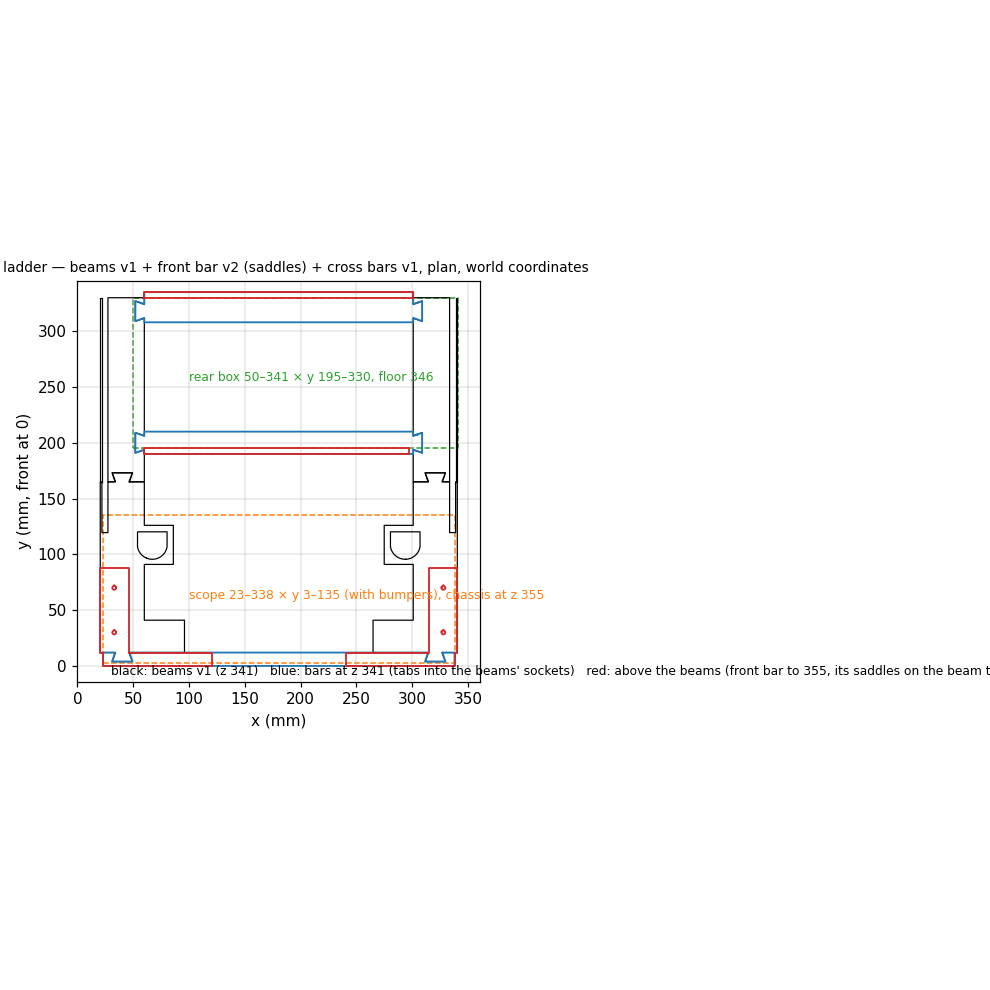
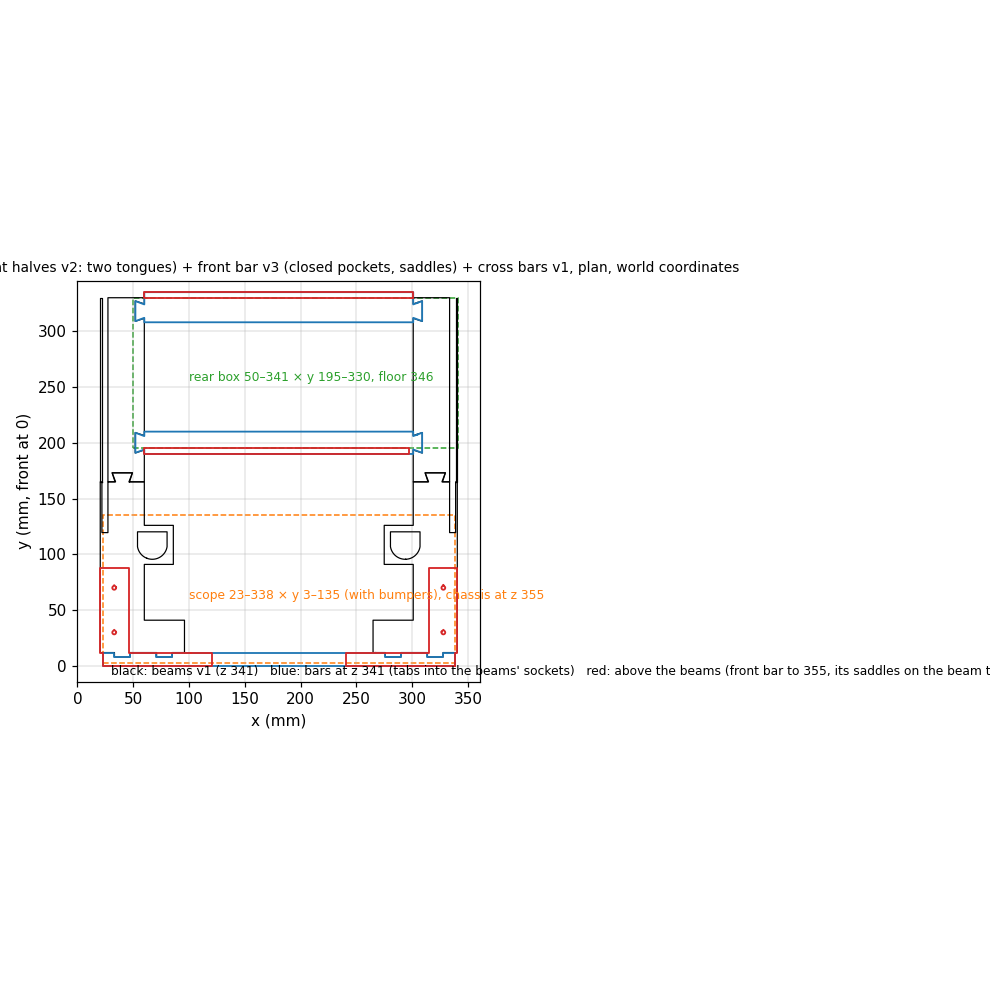
Sled front bar v3 + beam front halves v2: the stand pad is held by the bar
- Gareth, 2026-10-01: the pad should insert into the bar, not be glued
  to it. Each front half's front edge now carries two plain tongues
  (14 x 8 x 4, z 341.5-345.5, 45 deg wedge under the root): body at
  x 40.25 and stand pad at x 78. The bar has four closed pockets
  (0.15 clr, 4.35 floor, 9.35 above) and slides on from the front, so
  every tongue is captured above and below - the pad cannot drop. The
  v1 dovetail tab (open-bottom socket = hinge in roll) is gone; saddles
  and M3 screws stay and lock the bar on
- src/parts/sled_beam.py: TONGUE_* constants, tongue_wedge(); VERSION map
  -> sled-beam-{left,right}-front-v2 (rear halves stay v1, unchanged)
- src/parts/sled_bars.py: pockets + wedge cutters, VERSION -> front bar v3
- parts: sled-beam-{left,right}-front-v2.stl, sled-front-bar-v3.stl added;
  front halves v1 and front bar v2 removed (bambu 3mf of v1 is stale)
- src/sled_check.py: bar lifted 1 / lowered 1 must collide (closed
  pockets), slid 10 forward clear; all envelopes 0 cm3
- parts/sled-ladder-plan.png regenerated; ROADMAP status 2026-10-01 midday

Claude-Session: https://claude.ai/code/session_01NfymEEsbz5dDHNXhCDfjvd

Changed region(s): [[0.0, 0.2424, 0.6061, 0.2727], [0.6364, 0.2424, 0.7273, 0.2727]]

diff --git a/src/parts/sled_beam.py b/src/parts/sled_beam.py
@@ -10,7 +10,14 @@
 #               the two together: the pair is a sliding fit by design (P1) and the sled must move foot-and-beam as one.
 #   split       y 165: P7 puzzle tab on the front half pointing +y, socket in the rear half (DOVETAIL_CLR), assembled
 #               vertically and CA'd BEFORE threading onto the foot (a closed groove cannot be threaded half at a time).
-#   front bar   the beam's front end carries the same tab pointing −y (y 4–12) into a socket in the bar's rear-bottom edge.
+#   front bar   v2 front halves (2026-10-01): the front edge carries TWO plain tongues pointing −y (y 4–12, 14 wide,
+#               z 339.5–343.5) — one on the body at x 40.25, one on the STAND PAD at x 78 — into closed pockets in the
+#               bar's rear face (sled_bars.py v3). The bar slides on from the front, so each tongue is captured above and
+#               below: the pad's front edge is held by the bar and cannot drop (Gareth, 2026-09-28/10-01). Tongues sit
+#               z 341.5–345.5 with a 45° wedge under the root (the bar keeps a 4.35 floor under them); the pad's tongue
+#               pokes 2 above the stand pocket's floor but only inside the bar's footprint (y < 12), clear of the leg.
+#               v1 had one P7 dovetail tab on the body and the bar dropped on from above — an open-bottom socket, a
+#               hinge in roll.
 #   cross bars  y 190–210 and 308–328, between the beams (x 60–301): tab on each bar end, socket in the beam's inner edge.
 #   cup boss    x 46.5–86 × y 90–125, 10 thick (z 337–347): the P9 D cup (BUMPER_* + BUMPER_CUP_CLR), 6 deep = 5 straight +
 #               1 lead-in, floor at z 341 so the bumper's 14 puts the chassis at 355 (levels table). Flat faces the rear.
@@ -45,6 +52,10 @@ assert abs((Z0 + T - STAND_POCKET_D) + STAND_H - SCOPE_Z0) < 1e-6, 'stand pocket
 STAND_X0 = SCOPE_X0 + STAND_X_FROM_SIDE           # 47.7: stand's outer edge
 STAND_Y0 = SCOPE_Y0 + STAND_FRONT_FROM_FACE       # 13: main leg's front edge
 STAND_ARM = (XBAR_L, 96.0, Y_BAR, 41.0)            # pocket to x 92.3, 3.7 wall
+TONGUE_X = (XC, 78.0)                              # front tongues: beam body, stand pad centre (60–96)
+TONGUE_W, TONGUE_L, TONGUE_Z = 14.0, 8.0, (341.5, 345.5)   # 4 tall, 4.5 above the beam underside so the bar keeps a 4.35 floor under it
+TONGUE_WEDGE = 4.5                                 # 45° wedge under the tongue's root (y 7.5–12): self-supporting in the flat print, the
+                                                   # last 3.5 mm of the tongue is a short cantilever (rule 4)
 PEGS = ((33.0, 150.0), (33.0, 290.0)); PEG_D, PEG_H = 4.0, 2.5
 
 def d_profile(wp, w, d, side):
@@ -72,9 +83,19 @@ def groove(y0, y1):
 def tab(seam, along, dirn, grow=0.0, z0=Z0, z1=Z0 + T):
     return prism(trapezoid(seam, along, dirn, TAB_NECK, TAB_HEAD, TAB_LEN, grow=grow), z0, z1)
 
+def tongue_wedge(xt, grow=0.0):
+    """45° wedge under a tongue's root: (y 12, z 337) up to (y 12 − TONGUE_WEDGE, z 341.5). grow > 0 gives the bar's cutter."""
+    g = grow
+    pts = [(Y_BAR + 1 if g else Y_BAR, Z0 - (1 if g else 0)), (Y_BAR + 1 if g else Y_BAR, TONGUE_Z[0] + g),
+           (Y_BAR - TONGUE_WEDGE - g * 2 ** 0.5, TONGUE_Z[0] + g)]
+    w = cq.Workplane("YZ").polyline(pts).close().extrude(TONGUE_W + 2 * g)
+    return w.translate((xt - TONGUE_W / 2 - g, 0, 0))
+
 def left_front():
     b = box(X0, X0 + BW, Y_BAR, Y_SPLIT, Z0, Z0 + T)
-    b = b.union(tab(Y_BAR, XC, (-1, "y")))                                   # into the front bar
+    for xt in TONGUE_X:                                                       # tongues into the front bar's closed pockets
+        b = b.union(box(xt - TONGUE_W / 2, xt + TONGUE_W / 2, Y_BAR - TONGUE_L, Y_BAR, TONGUE_Z[0], TONGUE_Z[1]))
+        b = b.union(tongue_wedge(xt))
     b = b.union(tab(Y_SPLIT, XC, (+1, "y")))                                 # into the rear half
     b = b.union(box(*CUP_BOSS, Z0, Z0 + CUP_BOSS_T))
     b = b.union(box(*STAND_ARM, Z0, Z0 + T))
@@ -106,6 +127,7 @@ def for_print(part):
     except Exception as e:
         print("   chamfer skipped:", e); return p
 
+VERSION = {"sled-beam-left-front": 2, "sled-beam-right-front": 2}
 PARTS = {"sled-beam-left-front": left_front, "sled-beam-left-rear": left_rear,
          "sled-beam-right-front": lambda: mirror_right(left_front().cut(pegs_cutter())),
          "sled-beam-right-rear": lambda: mirror_right(left_rear().cut(pegs_cutter()))}
@@ -118,6 +140,6 @@ if __name__ == "__main__":
     OUT = os.path.normpath(os.path.join(os.path.dirname(os.path.abspath(__file__)), "..", "..", "parts")); os.makedirs(OUT, exist_ok=True)
     for name, fn in PARTS.items():
         p = for_print(fn()); bb = p.val().BoundingBox()
-        path = os.path.join(OUT, f"{name}-v1.stl"); cq.exporters.export(p, path, tolerance=0.01, angularTolerance=0.1)
+        path = os.path.join(OUT, f"{name}-v{VERSION.get(name, 1)}.stl"); cq.exporters.export(p, path, tolerance=0.01, angularTolerance=0.1)
         print(f"{name:24s} {bb.xlen:6.1f} x {bb.ylen:6.1f} x {bb.zlen:5.1f}  {p.val().Volume()/1000:6.1f} cm3")
         check(path, min_rest_frac=0.5, max_down_frac=0.35)

diff --git a/src/parts/sled_bars.py b/src/parts/sled_bars.py
@@ -4,8 +4,11 @@
 # assembled vertically and CA'd: a dry tab has 0.15 of play, and the whole point of the ladder is roll stiffness — on their
 # own the beams lean inwards under the scope (2026-09-28, Gareth's photo: the scope would not seat in the stand pockets).
 #
-#   front bar   x 23–338 (315), y 0–12, z 337–355 (18 tall). Sockets in its rear-bottom edge at x 40.25 / 320.75 take the
-#               beams' tabs (y 4–12, z 337–346); the bar drops onto both tabs. Pull: a 120 × 6 notch in the top edge
+#   front bar   x 23–338 (315), y 0–12, z 337–355 (18 tall). v3 (2026-10-01): four CLOSED pockets in its rear face
+#               (x 40.25 / 78 and mirrors, 14.3 × 4.3, 8.15 deep, z 341.35–345.65, plus the 45° wedge under each root) take
+#               the beams' front tongues (sled_beam v2: body and stand pad); the bar slides on from the FRONT, so every
+#               tongue is held above (9.35 of bar) and below (4.35 floor) — the stand pad cannot drop. v1/v2 had dovetail sockets open at the bottom (bar dropped on),
+#               which is a hinge in roll. Pull: a 120 × 6 notch in the top edge
 #               (x 120.5–240.5, z 349–355) — the D9 notch; whether it gets an insert is decided when the sled is in use.
 #               v2 (2026-09-28/10-01, after Gareth's photo of the stand arm's inboard edge dropping): two SADDLES on the
 #               bar's rear face, x 20.5–46 / 315–340.5, y 12–88, z 346–353, that lie on top of each beam's body behind
@@ -27,7 +30,7 @@ import os, sys, cadquery as cq
 sys.path.insert(0, os.path.join(os.path.dirname(os.path.abspath(__file__)), ".."))
 from fit import DOVETAIL_CLR as C
 from parts.drawer_quarters import box
-from parts.sled_beam import tab, Z0, T, XC, Y_BAR, XBAR_L, XBAR_R, CROSS_Y
+from parts.sled_beam import tab, Z0, T, XC, Y_BAR, XBAR_L, XBAR_R, CROSS_Y, TONGUE_X, TONGUE_W, TONGUE_L, TONGUE_Z, tongue_wedge
 
 BAR_X0, BAR_X1, BAR_Y1, BAR_H = 23.0, 338.0, 12.0, 18.0      # front bar
 XC_R = 361.0 - XC                                            # 320.75: right beam's tab centre (mirror about x 180.5)
@@ -40,8 +43,11 @@ REAR_CROSS = (308.0, 335.0)                                  # body y (runs 5 pa
 
 def front_bar():
     b = box(BAR_X0, BAR_X1, 0.0, BAR_Y1, Z0, Z0 + BAR_H)
-    for xc in (XC, XC_R):                                    # sockets: open at the bottom, closed at z 346
-        b = b.cut(tab(Y_BAR, xc, (-1, "y"), grow=C, z0=Z0 - 1, z1=Z0 + T))
+    for xt in TONGUE_X:                                      # closed pockets for the two tongues per beam, open at the rear face
+        for xc in (xt, 361 - xt):
+            b = b.cut(box(xc - TONGUE_W / 2 - C, xc + TONGUE_W / 2 + C, Y_BAR - TONGUE_L - C, Y_BAR + 1,
+                          TONGUE_Z[0] - C, TONGUE_Z[1] + C))
+            b = b.cut(tongue_wedge(xc, grow=C))               # and the 45° wedge under its root
     xm = (BAR_X0 + BAR_X1) / 2
     b = b.cut(box(xm - NOTCH_W / 2, xm + NOTCH_W / 2, -1, BAR_Y1 + 1, Z0 + BAR_H - NOTCH_D, Z0 + BAR_H + 1))
     x0, x1, y0, y1, z0, z1 = SADDLE
@@ -72,7 +78,7 @@ def cross_bar(y0, y1, yc, lip_front):
 def cross_front(): return cross_bar(*FRONT_CROSS, CROSS_Y[0], True)
 def cross_rear():  return cross_bar(*REAR_CROSS, CROSS_Y[1], False)
 
-VERSION = {"sled-front-bar": 2}
+VERSION = {"sled-front-bar": 3}
 PARTS = {"sled-front-bar": front_bar, "sled-cross-bar-front": cross_front, "sled-cross-bar-rear": cross_rear}
 
 def for_print(part, on_front=False):

diff --git a/src/sled_check.py b/src/sled_check.py
@@ -1,7 +1,8 @@
 # sled_check.py — proves the sled ladder (beams v1 + front bar + cross bars) before the bars print. python src/sled_check.py
 #   1. beams (as printed, world coordinates) + bars assembled: zero intersection
 #   2. every tab engaged: each bar shifted 0.5 along its own axis or across it collides with the beams
-#   3. vertical assembly: each bar lifted 10 is clear of the beams (sockets open upward / bar sockets open downward)
+#   3. assembly paths: the cross bars lifted 10 are clear (they drop on); the front bar lifted 10 COLLIDES (its pockets are
+#      closed — it slides on from the front) and slid 10 forward is clear
 #   4. scope body (x 23–338, y 3–135 with bumpers, z ≥ 355), the box (x 50–341, y 195–330, z ≥ 346), the stand legs at
 #      their loosest and the cable channel's footprint all clear of the bars (the v2 saddles sit between them)
 import os, sys
@@ -21,7 +22,10 @@ print("1. assembled:", {n: round(vol(b, beams), 4) for n, b in bars.items()}, "c
 for n, b in bars.items():
     for tag, d in (("x+0.5", (0.5, 0, 0)), ("x-0.5", (-0.5, 0, 0)), ("y+0.5", (0, 0.5, 0)), ("y-0.5", (0, -0.5, 0))):
         v = vol(b.translate(d), beams); print(f"2. {n} {tag}: {v:.3f} cm3 {'engaged' if v > 0.005 else 'FREE'}")
-print("3. lifted 10:", {n: round(vol(b.translate((0, 0, 10)), beams), 4) for n, b in bars.items()}, "cm3 (all 0)")
+lift = {n: round(vol(b.translate((0, 0, 10 if "cross" in n else 1)), beams), 4) for n, b in bars.items()}
+print("3. cross bars lifted 10 / front bar lifted 1:", lift, "cm3 — cross bars 0 (drop on); FRONT BAR MUST COLLIDE (closed pockets):", "ok" if lift["sled-front-bar"] > 0.01 else "FAIL")
+print("3c. front bar lowered 1 (pocket ceilings):", round(vol(bars["sled-front-bar"].translate((0, 0, -1)), beams), 4), "cm3 (must collide)")
+print("3b. front bar slid 10 forward (its assembly path):", round(vol(bars["sled-front-bar"].translate((0, -10, 0)), beams), 4), "cm3 (must be 0)")
 scope = box(23, 338, 3, 135, 355, 500); boxsolid = box(50, 341, 195, 330, 346, 456)
 stands = box(47.1, 92.3, 12, 37.1, 343.5, 355).union(box(361 - 92.3, 361 - 47.1, 12, 37.1, 343.5, 355))   # legs at the pocket's loose limits
 channel = box(20, 46, 140, 334, 346, 400)

diff --git a/src/sled_plan.py b/src/sled_plan.py
@@ -19,5 +19,5 @@ ax.add_patch(Rectangle((23, 3), 315, 132, fill=False, ec="C1", ls="--", lw=1)); 
 ax.add_patch(Rectangle((50, 195), 291, 135, fill=False, ec="C2", ls="--", lw=1)); ax.text(100, 255, "rear box 50–341 × y 195–330, floor 346", color="C2", fontsize=8)
 ax.text(30, -8, "black: beams v1 (z 341)   blue: bars at z 341 (tabs into the beams' sockets)   red: above the beams (front bar to 355, its saddles on the beam tops 346–353 with the M3 holes, guide lips 346–356)", fontsize=8)
 ax.set_xlim(0, 361); ax.set_ylim(-14, 345); ax.set_aspect("equal"); ax.grid(True, lw=0.3); ax.set_xlabel("x (mm)"); ax.set_ylabel("y (mm, front at 0)")
-ax.set_title("Sled ladder — beams v1 + front bar v2 (saddles) + cross bars v1, plan, world coordinates", fontsize=9)
+ax.set_title("Sled ladder — beams (front halves v2: two tongues) + front bar v3 (closed pockets, saddles) + cross bars v1, plan, world coordinates", fontsize=9)
 plt.tight_layout(); plt.savefig(os.path.join(PARTS, "sled-ladder-plan.png"), dpi=110); print("ok")

diff --git a/ROADMAP.md b/ROADMAP.md
@@ -22,7 +22,9 @@ v2: decisions D1–D6 answered (§0), cut plan redone for the 300 mm pack (§2),
 
 **Print jobs from 2026-09-26 — the side skin, black PETG, one plate a night (all six printed by 2026-09-28):** `parts/tiles/tiles-plate-A.stl` (band 2 left-front + a band-1 tile, 247 × 155, 69 cm³), then **B** (band 2 left-rear + band 1), **C** (band 3 left front + rear), **D**, **E**, **F** (the right side, same pattern). Face down as exported, no brim, no support, `SiglentTower fit 0.20`. Twelve tiles in all (`src/parts/side_tile.py production()`, `src/tiles_plates.py`). **Finding while assembling the skin in CadQuery:** the PSU and left-AWG cradle saddles' outer lips hang 6 mm down the rails' outer faces, and the door hinge's frame plates sit on the right scope rail's outer face — all inside the tile plane. Bands 2 and 3 therefore carry through-windows for them and are now four/two distinct left/right tiles; the whole skin (12 tiles, 8 rails, 6 lips, 2 hinge plates) checks at zero intersection. Right-side tiles are the left ones turned 180° about z — mount them with their local y running rearward; band 1 is the same tile everywhere. Band 4 left is still open (no rail under it).
 
-**Status 2026-10-01: sled front bar v2 — saddles.** Gareth's second look (photo, 2026-09-28 16:00): what drops is the stand arm's inboard edge, and he wants it supported by design, not glued better. There is nothing to put under the arm (AWG 1 mm below), so the support has to stop the beam ROLLING about its foot, and a 9 mm tab in a socket is a hinge in roll however well it is glued. **v2 `parts/sled-front-bar-v2.stl`** (replaces v1, which is withdrawn — `bambu/parts/sled-front-bar-v1.3mf` is stale) adds a **saddle** on each end of the bar's rear face, x 20.5–46 / 315–340.5, y 12–88, z 346–353, lying on the beam body behind the bar: a 25.5 × 76 lap, CA'd and **screwed with two M3 × 14 self-tappers per side** (Ø3.4 teardrop holes at x 33 / 328, y 30 / 70; drill Ø2.5 pilots into the beam through them; 7 mm into the 9 mm beam, 2 short of its underside). The beam can no longer roll without shearing the lap, which is what holds the arm's edge up — the arm itself bends 0.01 mm. Clearances: 1.1 to the stand leg at its loosest (x 47.1), 2 under the chassis (355), 0.5 / 3 to the cup boss, clear of the cable channel; `src/sled_check.py` extended with the stand-leg and channel envelopes, all 0.000 cm³. Prints **front face down** as exported (315 × 18 footprint, saddles rising 76; every socket flank still a vertical wall; 86 % resting face, nothing to support), dark grey PETG, 84 cm³, on the diagonal. **Buy: M3 × 14 self-tapping / button-head ×4 more** (8 in all with the facia's).
+**Status 2026-10-01 (midday): front bar v3 + beam front halves v2 — the stand pad gets its own tongue into the bar.** Gareth's point, accepted: the pad should be held by the bar, not glued to it. Each front half's front edge now carries **two plain tongues** (14 × 8 × 4, z 341.5–345.5, a 45° wedge under each root), one on the body at x 40.25 and one on the stand pad at x 78; the bar has four **closed pockets** (0.15 clearance, 4.35 of floor under each, 9.35 above) and **slides on from the front** — so each tongue is captured above and below and the pad cannot drop. The v1 dovetail tab is gone (an open-bottom socket is a hinge in roll). Saddles and M3 screws stay (they lock the bar on). **Reprint: `parts/sled-beam-left-front-v2.stl` + `parts/sled-beam-right-front-v2.stl`** (black ABS+, dried, flat as exported, both on one plate, 5 mm outer brim — trim it off the tongues and tabs — supports on build plate only: the tongues' last 3.5 mm are short cantilevers, 68 cm³ each) **and `parts/sled-front-bar-v3.stl`** (grey PETG, front face down on the diagonal, brim on, 84 cm³). v2 bar and v1 front halves withdrawn (rear halves, feet, cross bars unchanged). `src/sled_check.py`: assembled 0 cm³, tongues engaged at 0.5 in x and rearward, bar lifted 1 / lowered 1 collides (pockets closed both ways), slid 10 forward clear (its assembly path), scope / box / stand-leg / channel envelopes clear. Assembly: the beams' halves CA'd at the P7 tab, rib threaded onto the feet, then the bar pushed on from the front over all four tongues, saddles screwed and glued, then the cross bars dropped in and glued.
+
+**Status 2026-10-01 (morning): sled front bar v2 — saddles** *(superseded by v3 the same day)*. Gareth's second look (photo, 2026-09-28 16:00): what drops is the stand arm's inboard edge, and he wants it supported by design, not glued better. There is nothing to put under the arm (AWG 1 mm below), so the support has to stop the beam ROLLING about its foot, and a 9 mm tab in a socket is a hinge in roll however well it is glued. **v2 `parts/sled-front-bar-v2.stl`** (replaces v1, which is withdrawn — `bambu/parts/sled-front-bar-v1.3mf` is stale) adds a **saddle** on each end of the bar's rear face, x 20.5–46 / 315–340.5, y 12–88, z 346–353, lying on the beam body behind the bar: a 25.5 × 76 lap, CA'd and **screwed with two M3 × 14 self-tappers per side** (Ø3.4 teardrop holes at x 33 / 328, y 30 / 70; drill Ø2.5 pilots into the beam through them; 7 mm into the 9 mm beam, 2 short of its underside). The beam can no longer roll without shearing the lap, which is what holds the arm's edge up — the arm itself bends 0.01 mm. Clearances: 1.1 to the stand leg at its loosest (x 47.1), 2 under the chassis (355), 0.5 / 3 to the cup boss, clear of the cable channel; `src/sled_check.py` extended with the stand-leg and channel envelopes, all 0.000 cm³. Prints **front face down** as exported (315 × 18 footprint, saddles rising 76; every socket flank still a vertical wall; 86 % resting face, nothing to support), dark grey PETG, 84 cm³, on the diagonal. **Buy: M3 × 14 self-tapping / button-head ×4 more** (8 in all with the facia's).
 
 **Status 2026-09-28 (bench, midday): the scope on the bare beams leans them inwards** — photo: the stands would not seat in the pockets. Cause, not a beam fault: the scope's weight sits 45 mm inboard of each foot, and with nothing tying the beams each one rolls on the foot's slot play (0.3), the unglued rib (0.2) and the 2.5 web — 3–4 mm at the stands. The fix is the designed ladder, now released: **`parts/sled-front-bar-v1.stl`** (dark grey PETG, 315 × 12 × 18, standing on its bottom edge on the diagonal as exported, sockets open to the bed; 120 × 6 pull notch in the top edge, insert decided later) and **`parts/sled-cross-bar-{front,rear}-v1.stl`** (black ABS, flat as exported, 257 × 20/27 × 19 with the guide lips; front lip chamfered at the exit end, rear bar runs to y 335 to carry its lip). `src/parts/sled_bars.py`; proven in `src/sled_check.py` against the printed beams (0 cm³ assembled, every tab engaged at 0.5, all three lift clear, scope and box envelopes clear); sheet `parts/sled-ladder-plan.png`. **Every tab CA'd** — a dry tab's 0.15 play is 0.8 mm at the stands. Assembly order: bars onto the beams (sets the 241), then the beams bonded to the feet. Modelling queue items (1) and (2) done; fallback if lean remains after glue-up: a third bar lap-glued on top of the beams behind the stand arms, no beam reprint.
 
@@ -32,7 +34,9 @@ v2: decisions D1–D6 answered (§0), cut plan redone for the 300 mm pack (§2),
 
 **Status 2026-09-28 (evening) — seating the PSU and AWG.** **Seating jigs issued** (`src/jigs/seating_jigs.py` → `jigs/seating-jigs-plate.stl`, yellow PETG, 213 × 246, 52 cm³ solid, as exported, no brim, no support, 2 walls, 15 % infill): **PSU L / PSU R** — a bar with two replica PSU feet at y 51 / 253.5 and a nose arm whose front face stops on the front-left upright (y 20) / front inner upright (y 23); **AWG L / AWG R** — a bar with two 20 × 20 bosses into the pad pockets, 203 / 200 apart, setting the rear cradle from the front one; **four PETG stand-in AWG pads** (20 × 20 × 5.5) so the AWG can sit before the Stage 8 TPU session. Proven against the cradle models: 0 intersection in place, 0.5 forward collides, nose faces on y 20.00 / 23.00. The PSU arms reach 52, so the jigs still work if the cups move 3 mm (v4). **Three clashes found in the model, awaiting Gareth's measurements (PSU foot c-c across, cup c-c across on the frame, PSU bench-to-case-top) before any reprint:** (1) `psu_cradle.py` puts the cup REACH from the lip's outer face, not the rail face → cups 41.75 in, 147.5 c-c across vs ~154 feet; (2) PSU top 92 + 149 = 241 vs the AWG cradle arms' underside 239.5 (the viewer draws the PSU 137 tall); (3) the right AWG brackets' plate (x 241–251, z 227.5–247.5) overlaps the PSU body (to x 245.75, z 241) by 4.75. Proposed: PSU cradles v4 (cup 3 nearer the rail, 2 deeper) and AWG cradles v2 (arms 6, right plate 4 with countersunk M5).
 
-**HANDOVER 2026-09-27 (evening) — read this first.** Where things stand: Stage 0 ☑; gates P1 P2 P4 P5 P6 P7 P9 ☑ (P3 = friction verdict at 4.1, P8 = the Stage 8 TPU session). Strip brackets done and mounted (upper v1, lower v4). **Gareth is assembling the frame now — Stage 2, 2.1–2.5 — from `frame-assembly-3d.html`** (`src/frame_assembly_viewer.py`; regenerate with `python src/frame_assembly_viewer.py`, it lifts three.js from `bench-stack-3d.html`). His T-nuts are drop-in; connectors per the §Stage 2 note (hidden L on the inward faces, one flat cast bracket on the front tie, scope rails on cast brackets — fitted in the same flat build with their feet already in, revised 2026-09-28). Ask him for: the diagonal / 321 / 510 checks, whether anything wobbles (3 spare cast brackets go under the PSU rails' rear ends first), then tick 2.1–2.6 and do 2.7 (PSU and AWG on blocks at 91 and 251.5, check the 3 mm reveals). **Printer:** tiles plate A printed, B and C sliced (`bambu/parts/`), B is tonight; then D, E, F; each night one plate *(all six printed by 2026-09-28)*. **Nothing else is waiting on the bench. He wants a BIG overnight run next** — the tile plates are bed-limited to two tiles a night (band 2 + band 3 nested would be 250.2 wide; band 1 + band 1 + band 3 is 252.6 — both over the 250 plate rule, so no repack), and nothing bigger is exported yet. So the first job of the next session is to make one *(done 2026-09-28: drawer quarters Q1–Q4 released, one per plate)*: best candidates are the bottom-drawer quarters (D2, P7 ☑, `src/parts/drawer_quarters.py` production pass — runner grooves, facia bosses — one quarter per plate, the biggest print in the build) or the ABS+ bar plate (bottom-drawer runners ×2 with four M5 each, column guide strips ×4, mini-slot runner ×1, all on the diagonal), whichever is ready first; tile plate C runs tonight regardless, D–F on the nights after. Then the modelling queue, in order: (1) ~~sled front bar~~ and (2) ~~two cross bars~~ (both done 2026-09-28, `src/parts/sled_bars.py`); (3) cable channel (Ø4.3 holes on the pegs at x 33, y 150 / 290); (4) sled stops; (5) band-4 left tile (its bottom fingers interleave with band 3's top ones — band 3 is plate C, already sliced, so band 4 must fit round band 3, not the reverse); (6) ~~drawer quarters production pass~~ (done 2026-09-28) and the bottom-drawer runners (four M5 each); (7) column guide strips — the one on the right PSU rail's inner face starts at y ≥ 45 (front-tie bracket at y 23–43). Every export through `printcheck.py`, every clearance from `fit.py`, every fit proven by boolean intersection + shift test before it goes to him (he will not read code). **How he works:** files go straight into the repo folder (never zips), always with a commit message he can paste — long ones in `.git/<name>-commit-msg.txt` + `git commit -F`; numbered one-action steps, plain words (no invented terms — he asked what 'bezel' and 'CA' meant), diagrams when asked; ABS+ profile has a 5 mm outer brim on everything; TPU prints once, last. Keep `claude/ROADMAP.md` in the project in step with this file.
+**HANDOVER 2026-10-01 (morning) — read this first; the 2026-09-27 handover below it is history.** Frame: Stage 2 built (sides flat-built with all five rails and the feet, joined, sub-frame in); 2.1–2.7 are not ticked because Gareth has not yet reported the diagonal / 321 / 510 checks or a wobble — ask, then tick. The scope has been trial-sat on the bare beams and leaned them inwards → sled front bar v2 with saddles (status 2026-10-01); cross bars v1 sliced. **Printed:** tiles A–F (12 side tiles), drawer quarters Q1–Q4, PSU + AWG cradles, sled feet + beams, strip brackets, hinge pair; the drawer runners are the 09-30 / 10-01 night jobs. **Next on the bench, in order:** (1) reprint the beam front halves v2 and the front bar v3 (status 2026-10-01 midday), fit with the cross bars, glue and screw every joint, scope on, check the stand pads stay level; (2) runners into the base rails, P3 stub then the assembled drawer — **P3's friction verdict**; (3) PSU / AWG seating with the jigs — **blocked on his measurements** (PSU foot c-c across, cup c-c on the frame, PSU bench-to-case-top) because the model shows three clashes (status 2026-09-28 evening) — do not reprint cradles before those numbers. **Modelling queue:** drawer home stop; column guide strips ×4 + mini-slot runner (ABS+, after the P3 verdict); cable channel (Ø4.3 holes on the pegs at x 33, y 150 / 290); sled stops; band-4 left tile (fits round band 3, already printed); drawer facia + pull insert (Ø2.6 blind holes for the M3 × 14 pads at x 40 / 117.5 / 197.5 / 275, z 23); column + mini-slot drawers; housing tops; box halves. **Hardware to buy:** M3 × 14 ×8 (4 facia, 4 saddles). **Rules that bit this week:** nothing can go under the sled beams (AWG 1 mm below) — roll stiffness comes from the ladder's lap joints, not from supports; a tab joint is a hinge in roll; one drawer quarter per plate; every export through `printcheck.py`, every fit proven by boolean + shift test before it goes to him; he does not read code — files straight into the repo with a `.git/<name>-commit-msg.txt` and the `git commit -F` line, numbered one-action steps, plain words.
+
+**HANDOVER 2026-09-27 (evening).** Where things stand: Stage 0 ☑; gates P1 P2 P4 P5 P6 P7 P9 ☑ (P3 = friction verdict at 4.1, P8 = the Stage 8 TPU session). Strip brackets done and mounted (upper v1, lower v4). **Gareth is assembling the frame now — Stage 2, 2.1–2.5 — from `frame-assembly-3d.html`** (`src/frame_assembly_viewer.py`; regenerate with `python src/frame_assembly_viewer.py`, it lifts three.js from `bench-stack-3d.html`). His T-nuts are drop-in; connectors per the §Stage 2 note (hidden L on the inward faces, one flat cast bracket on the front tie, scope rails on cast brackets — fitted in the same flat build with their feet already in, revised 2026-09-28). Ask him for: the diagonal / 321 / 510 checks, whether anything wobbles (3 spare cast brackets go under the PSU rails' rear ends first), then tick 2.1–2.6 and do 2.7 (PSU and AWG on blocks at 91 and 251.5, check the 3 mm reveals). **Printer:** tiles plate A printed, B and C sliced (`bambu/parts/`), B is tonight; then D, E, F; each night one plate *(all six printed by 2026-09-28)*. **Nothing else is waiting on the bench. He wants a BIG overnight run next** — the tile plates are bed-limited to two tiles a night (band 2 + band 3 nested would be 250.2 wide; band 1 + band 1 + band 3 is 252.6 — both over the 250 plate rule, so no repack), and nothing bigger is exported yet. So the first job of the next session is to make one *(done 2026-09-28: drawer quarters Q1–Q4 released, one per plate)*: best candidates are the bottom-drawer quarters (D2, P7 ☑, `src/parts/drawer_quarters.py` production pass — runner grooves, facia bosses — one quarter per plate, the biggest print in the build) or the ABS+ bar plate (bottom-drawer runners ×2 with four M5 each, column guide strips ×4, mini-slot runner ×1, all on the diagonal), whichever is ready first; tile plate C runs tonight regardless, D–F on the nights after. Then the modelling queue, in order: (1) ~~sled front bar~~ and (2) ~~two cross bars~~ (both done 2026-09-28, `src/parts/sled_bars.py`); (3) cable channel (Ø4.3 holes on the pegs at x 33, y 150 / 290); (4) sled stops; (5) band-4 left tile (its bottom fingers interleave with band 3's top ones — band 3 is plate C, already sliced, so band 4 must fit round band 3, not the reverse); (6) ~~drawer quarters production pass~~ (done 2026-09-28) and the bottom-drawer runners (four M5 each); (7) column guide strips — the one on the right PSU rail's inner face starts at y ≥ 45 (front-tie bracket at y 23–43). Every export through `printcheck.py`, every clearance from `fit.py`, every fit proven by boolean intersection + shift test before it goes to him (he will not read code). **How he works:** files go straight into the repo folder (never zips), always with a commit message he can paste — long ones in `.git/<name>-commit-msg.txt` + `git commit -F`; numbered one-action steps, plain words (no invented terms — he asked what 'bezel' and 'CA' meant), diagrams when asked; ABS+ profile has a 5 mm outer brim on everything; TPU prints once, last. Keep `claude/ROADMAP.md` in the project in step with this file.
 
 **Status 2026-09-27 (bench):** **Strip brackets done** — lower v4 seats on the Addtam with the cable in place ("fits perfectly"); **both brackets bolted to the rear-left upright (z 344.5 / 95) and the strip hangs solidly on them;** upper is the v1 already printed (v2/v3 withdrawn: the part is built around its peg, so raising the strip changed only its bolt height). Two wrong turns on the way: v3 moved the peg line +8 (not the problem — reverted, `STRIP_KEYHOLE_OFF` 29.2); the real fault was the shelf sitting under the strip's mains cable, which exits the bottom end on the keyhole line, Ø15, rigid 25 → v4 U-shelf and strip at z 75–425 (D8 updated). Rule reinforced: check every feature against the working envelope *including the cables*. Tiles plate A printed; B–F queued as the overnight jobs. Hinge swing checked later the same day: no bind, folds just past 180 → **P5 ☑**. Next: frame build Stage 2 (2.1–2.5; hold 2.6 until the feet are bonded into the beams); Claude models the sled front bar, cross bars, cable channel and stops.
 
